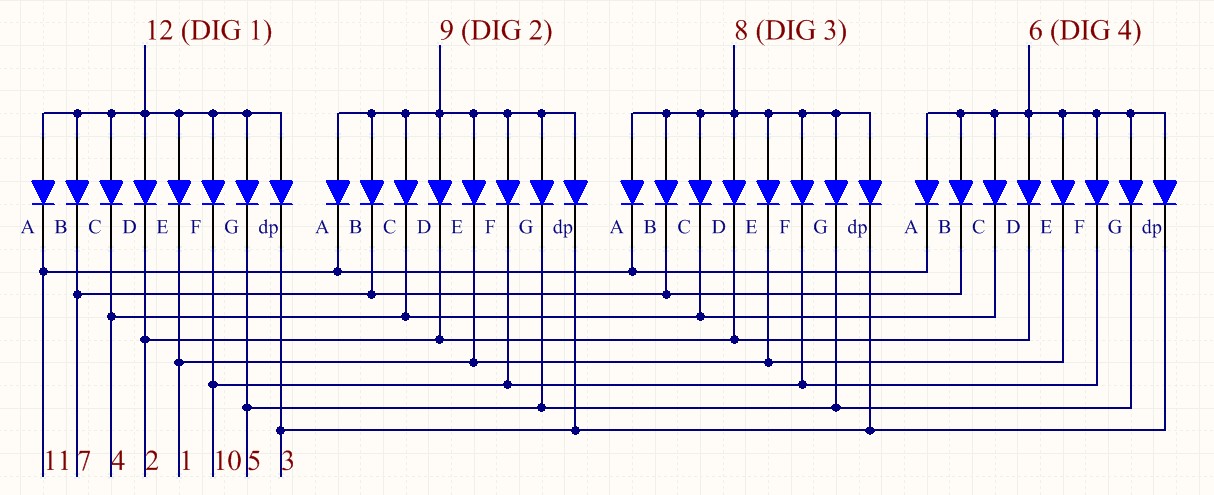
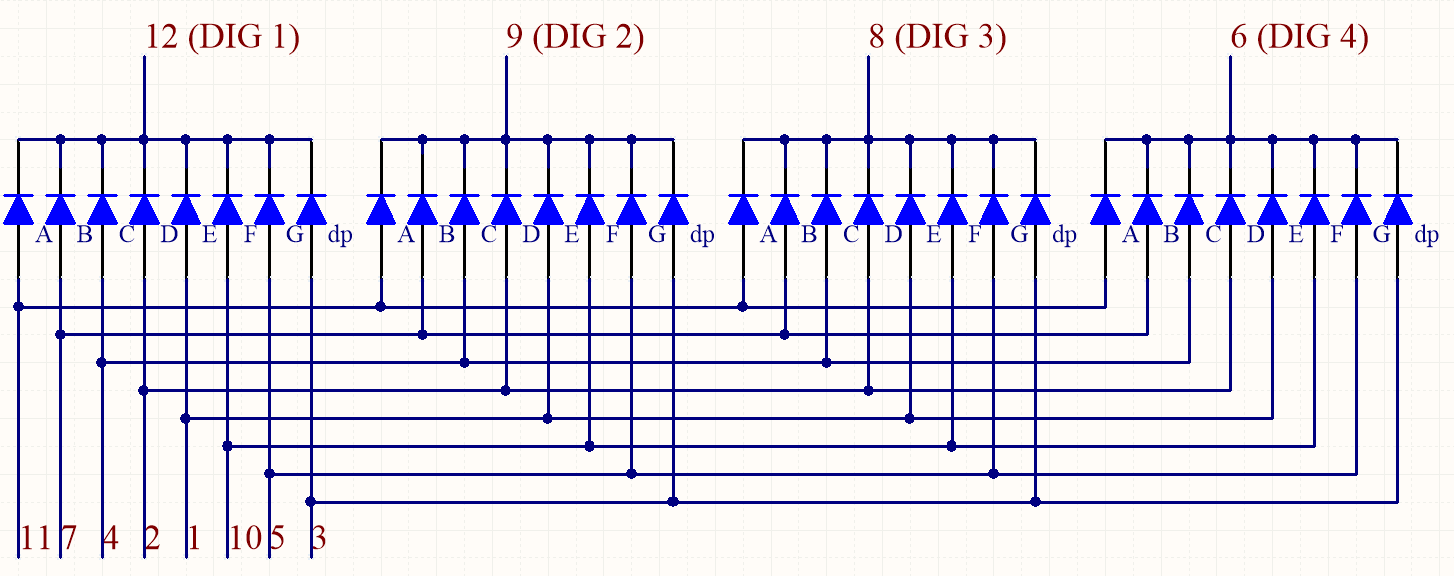
change the wrong contents

Changed region(s): [[0.0, 0.0303, 1.0, 0.9697], [0.8229, 0.0303, 0.9448, 0.0909]]

diff --git a/docs/source/conf.py b/docs/source/conf.py
@@ -24,15 +24,23 @@ project = 'SunFounder vincent_kit_for_arduino'
 copyright = f'{time.localtime().tm_year}, SunFounder'
 author = 'www.sunfounder.com'
 
+# -- sphinx_rtd_theme Theme options -----------------------------------------------------
+html_theme_options = {
+    'flyout_display': 'attached',
+    'version_selector': False,
+    'language_selector': False,
+}
 
 # -- General configuration ---------------------------------------------------
 
 # Add any Sphinx extension module names here, as strings. They can be
 # extensions coming with Sphinx (named 'sphinx.ext.*') or your custom
 # ones.
-extensions = ['sphinx.ext.autosectionlabel'
+extensions = [
+    'sphinx.ext.autosectionlabel',
+    'sphinx_copybutton',
+    'sphinx_rtd_theme'
 ]
-
 # Add any paths that contain templates here, relative to this directory.
 templates_path = ['_templates']
 

diff --git a/docs/source/components/component_4_digit.rst b/docs/source/components/component_4_digit.rst
@@ -23,17 +23,65 @@ at the same time.
 .. image:: img/image78.png
 
 
-**Display Codes**
+**Display Codes** 
 
-To help you get to know how 7-segment displays(Common Anode) display
-Numbers, we have drawn the following table. Numbers are the number 0-F
-displayed on the 7-segment display; (DP) GFEDCBA refers to the
-corresponding LED set to 0 or 1, For example, 11000000 means that DP and
-G are set to 1, while others are set to 0. Therefore, the number 0 is
-displayed on the 7-segment display, while HEX Code corresponds to
-hexadecimal number.
+To help you get to know how 7-segment displays(Common Cathode) display Numbers, we have drawn the following table. Numbers are the number 0-F displayed on the 7-segment display; (DP) GFEDCBA refers to the corresponding LED set to 0 or 1, For example, 00111111 means that DP and G are set to 0, while others are set to 1. Therefore, the number 0 is displayed on the 7-segment display, while HEX Code corresponds to hexadecimal number.
 
-.. image:: img/common_anode.png
+.. list-table:: Glyph Code
+    :widths: 20 20 20
+    :header-rows: 1
+
+    *   - Numbers	
+        - Binary Code
+        - Hex Code  
+    *   - 0	
+        - 00111111	
+        - 0x3f
+    *   - 1	
+        - 00000110	
+        - 0x06
+    *   - 2	
+        - 01011011	
+        - 0x5b
+    *   - 3	
+        - 01001111	
+        - 0x4f
+    *   - 4	
+        - 01100110	
+        - 0x66
+    *   - 5	
+        - 01101101	
+        - 0x6d
+    *   - 6	
+        - 01111101	
+        - 0x7d
+    *   - 7	
+        - 00000111	
+        - 0x07
+    *   - 8	
+        - 01111111	
+        - 0x7f
+    *   - 9	
+        - 01101111	
+        - 0x6f
+    *   - A	
+        - 01110111	
+        - 0x77
+    *   - B
+        - 01111100	
+        - 0x7c
+    *   - C	
+        - 00111001	
+        - 0x39
+    *   - D	
+        - 01011110	
+        - 0x5e
+    *   - E	
+        - 01111001	
+        - 0x79
+    *   - F	
+        - 01110001	
+        - 0x71
 
 **Example**
 
